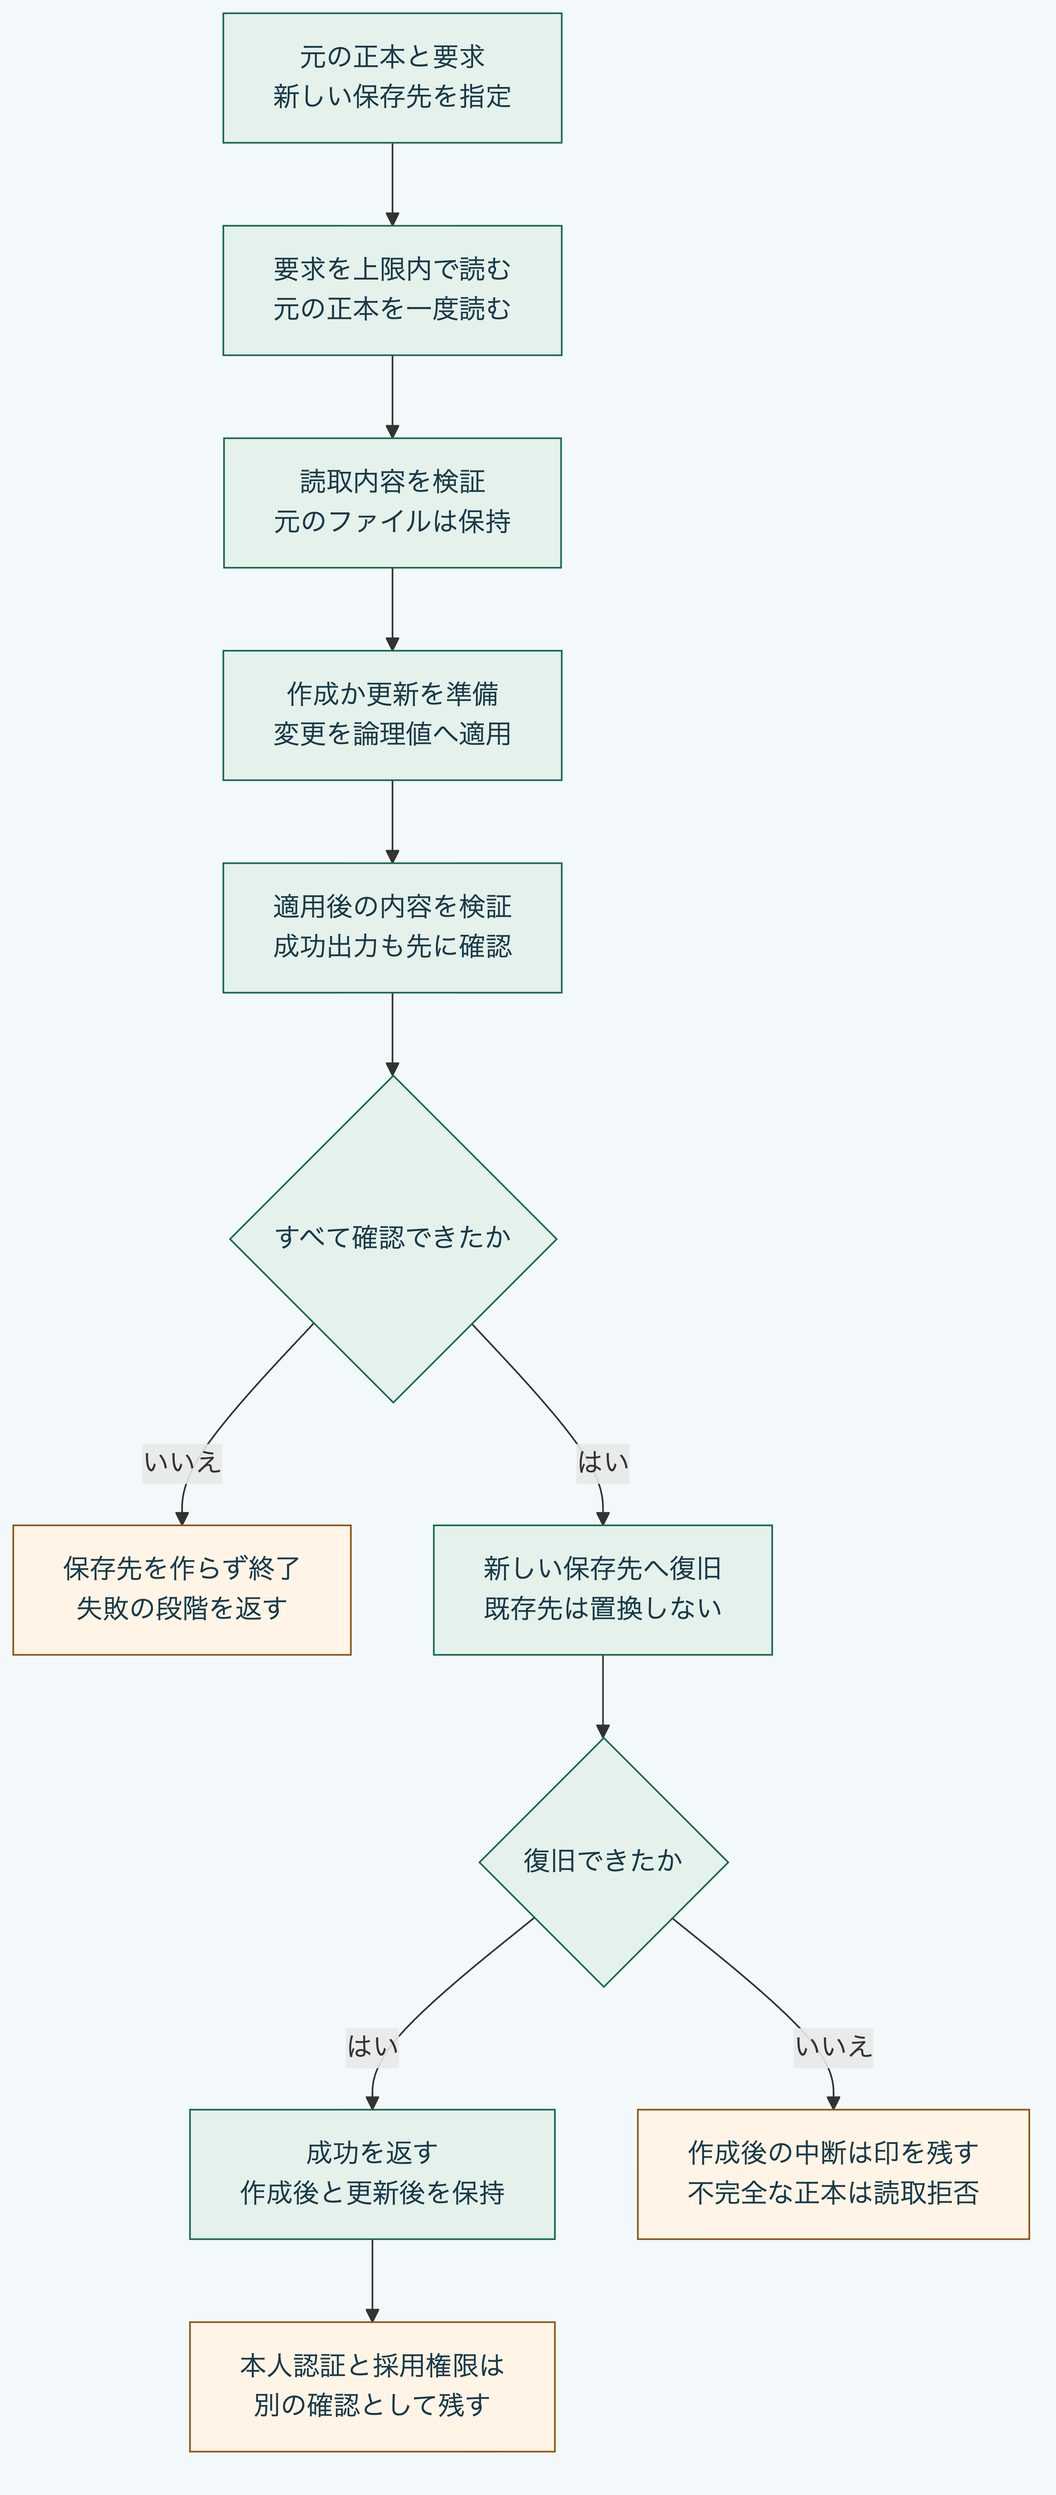
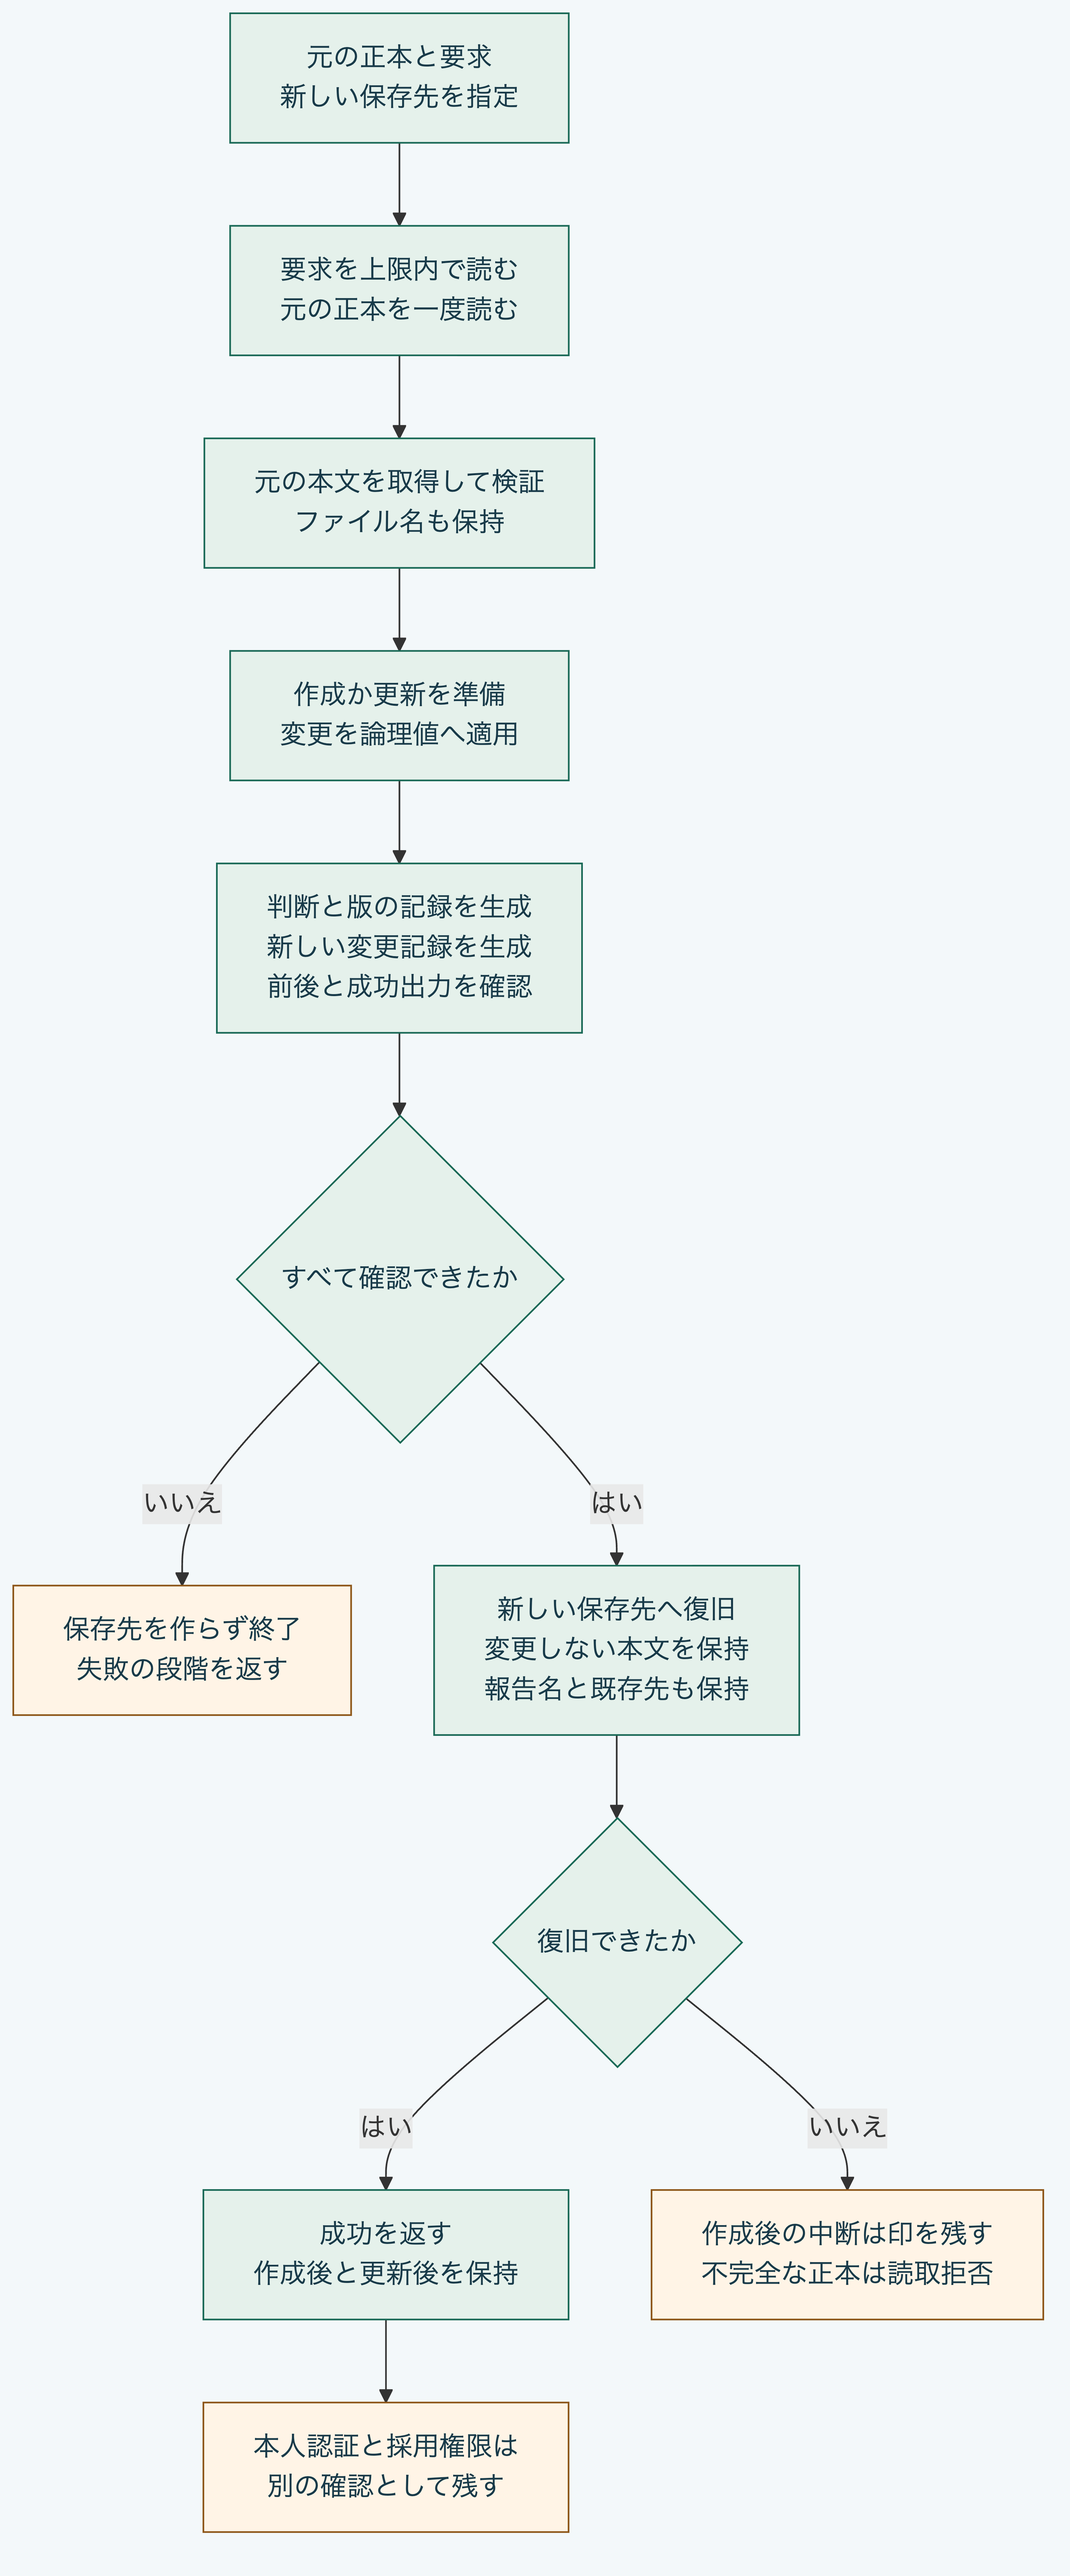
[fix] 判断のPython保存例で変更しない本文と報告名を保持する

diff --git a/examples/python-decisions/workflow.py b/examples/python-decisions/workflow.py
@@ -10,7 +10,7 @@ sys.path.insert(0, str(Path(__file__).resolve().parents[2] / "packages" / "porta
 from canonical import load_json
 from changeset_apply import apply_change_set
 from decision_preparation import prepare_decision_creation, prepare_decision_revision
-from package_records import read_package, read_package_files, write_package_files
+from package_records import read_package_file_sources, read_package_files, write_package_files
 from package_restore import restore_package_files
 from package_validation import validate_package_files
 from stdin_transport import read_bounded_stdin
@@ -27,8 +27,8 @@ class ExampleFailure(ValueError):
 def write_decision(operation, source, destination, request):
     stage = "source"
     try:
-        contents = read_package(source)
-        previous = write_package_files(contents)
+        previous = read_package_file_sources(source)
+        contents = read_package_files(previous)
         if not validate_package_files(previous)["valid"]:
             raise ValueError("source Graph is invalid")
         stage = "prepare"
@@ -45,7 +45,13 @@ def write_decision(operation, source, destination, request):
         stage = "validation"
         contents.update(elements=applied["elements"], revision=applied["revision"])
         contents["changeSets"].append(plan["changeSet"])
-        files = write_package_files(contents)
+        generated = write_package_files(contents)
+        # These preparations change one Decision and add one ChangeSet only.
+        # Keep every other checked source, including report aliases, verbatim.
+        updated = ("revision.yaml",
+                   "graph/entities/" + plan["candidateElement"]["id"][9:] + ".yaml",
+                   "ledger/" + plan["changeSet"]["id"][9:] + ".yaml")
+        files = {**previous, **{path: generated[path] for path in updated}}
         report = validate_package_files(files, previous_files=previous)
         if not report["valid"]:
             raise ValueError("result Graph is invalid")

diff --git a/docs/tutorials/python-decision.md b/docs/tutorials/python-decision.md
@@ -102,7 +102,10 @@ python3 packages/portable-core/package_validation.py "$work/revised/.morivyx" --
 元の正本の内側も保存先には指定できません。
 正本の対応する記録とSchemaを出力し、`.git`や対応外の補助ファイルはコピーしません。
 必要な補助ファイルは、元の保存先に保持します。
-本文の出力時には、既存の規則に従って文字、時刻とYAMLの表記を正規化します。
+保存先では、版の記録、対象の判断と新しい変更記録だけを書き出します。
+それ以外のファイルは元の本文と名前を引き継ぎ、報告の別名や許可されたYAMLの表記も保持します。
+書き出す3記録は、既存の規則に従って文字、時刻とYAMLの表記を正規化します。
+この保持は実行例の処理であり、論理値を全量再出力する`write_package_files`自体の動作を変えるものではありません。
 
 ![元と適用後の内容及び成功出力を確認してから新規領域へ復旧し、中断時は未完了印を残す流れ](../diagrams/python-decision-workflow.png)
 
